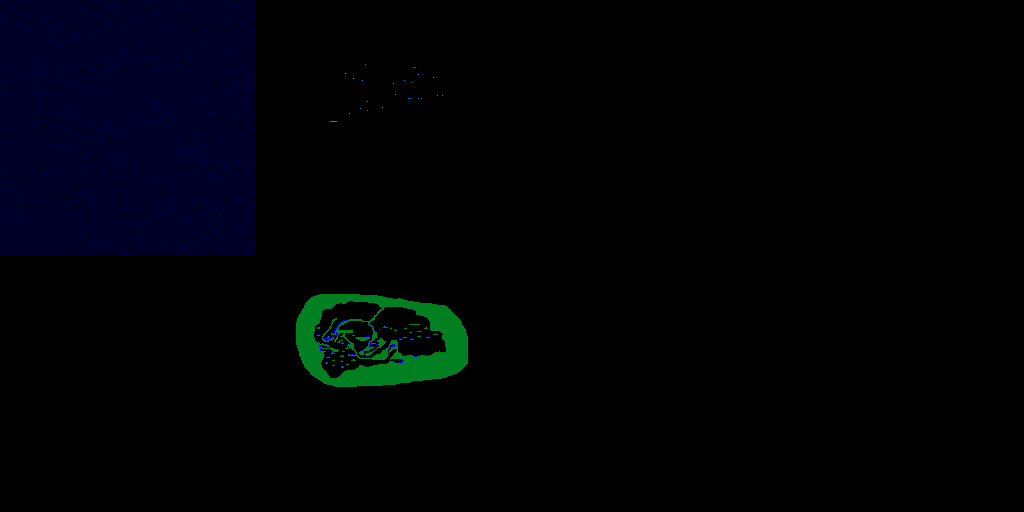
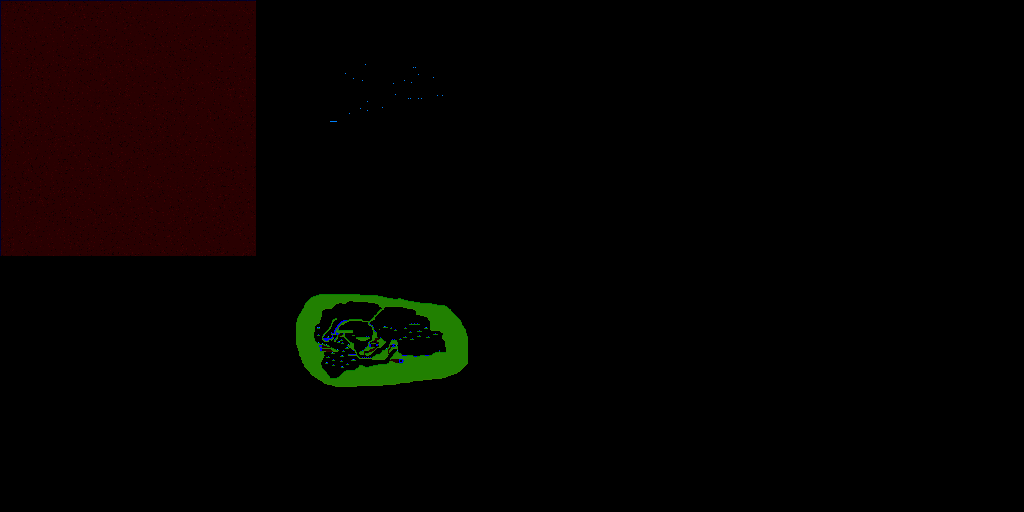
PlatformGameTest better lava

Changed region(s): [[0.0, 0.0, 0.25, 0.5], [0.2812, 0.5625, 0.4688, 0.7812]]

diff --git a/PlatformGameTest/src/game/LevelPreprocessor.java b/PlatformGameTest/src/game/LevelPreprocessor.java
@@ -13,7 +13,7 @@ public class LevelPreprocessor {
 		if(c == 0) {
 			return true;
 		}
-		c &= 0xFF;
+		c = (c >> 16) & 0xFF;
 		return (c > 200 && c != 249 && c != 248 && c != 220 && c != 222
 						&& c != 224 && c != 226 && c != 228);
 	}
@@ -27,114 +27,114 @@ public class LevelPreprocessor {
 	}
 
 	private static int processWall(int[] level, int i, int j, int width) {
-		int b = 33;
-		int bl = getPixel(level, i - 1, j, width) & 0xFFFFFF;
-		int br = getPixel(level, i + 1, j, width) & 0xFFFFFF;
-		int bt = getPixel(level, i, j - 1, width) & 0xFFFFFF;
-		int bb = getPixel(level, i, j + 1, width) & 0xFFFFFF;
+		int r = 33;
+		int rl = getPixel(level, i - 1, j, width) & 0xFFFFFF;
+		int rr = getPixel(level, i + 1, j, width) & 0xFFFFFF;
+		int rt = getPixel(level, i, j - 1, width) & 0xFFFFFF;
+		int rb = getPixel(level, i, j + 1, width) & 0xFFFFFF;
 
-		if (notWall(bl)) {
-			if (notWall(br)) {
-				if (notWall(bt)) {
-					if (notWall(bb)) {
-						b = 21;
+		if (notWall(rl)) {
+			if (notWall(rr)) {
+				if (notWall(rt)) {
+					if (notWall(rb)) {
+						r = 21;
 					} else {
-						b = 20;
+						r = 20;
 					}
 				} else {
-					if (notWall(bb)) {
-						b = 35;
+					if (notWall(rb)) {
+						r = 35;
 					} else {
-						b = 37;
+						r = 37;
 					}
 				}
 			} else {
-				if (notWall(bt)) {
-					if (notWall(bb)) {
-						b = 19;
+				if (notWall(rt)) {
+					if (notWall(rb)) {
+						r = 19;
 					} else {
-						b = 3;
+						r = 3;
 					}
 				} else {
-					if (notWall(bb)) {
-						b = 48;
+					if (notWall(rb)) {
+						r = 48;
 					} else {
-						b = 32;
+						r = 32;
 					}
 				}
 			}
 		} else {
-			if (notWall(br)) {
-				if (notWall(bt)) {
-					if (notWall(bb)) {
-						b = 36;
+			if (notWall(rr)) {
+				if (notWall(rt)) {
+					if (notWall(rb)) {
+						r = 36;
 					} else {
-						b = 5;
+						r = 5;
 					}
 				} else {
-					if (notWall(bb)) {
-						b = 50;
+					if (notWall(rb)) {
+						r = 50;
 					} else {
-						b = 34;
+						r = 34;
 					}
 				}
 			} else {
-				if (notWall(bt)) {
-					if (notWall(bb)) {
-						b = 52;
+				if (notWall(rt)) {
+					if (notWall(rb)) {
+						r = 52;
 					} else {
-						b = 4;
+						r = 4;
 					}
 				} else {
-					if (notWall(bb)) {
-						b = 49;
+					if (notWall(rb)) {
+						r = 49;
 					} else {
-						b = 33;
+						r = 33;
 					}
 				}
 			}
 		}
 
-		return b;
+		return r;
 	}
 
 	private static int processPlatform(int[] level, int i, int j, int width) {
-		int b = 1;
-		int bl = getPixel(level, i - 1, j, width) & 0xFFFFFF;
-		int br = getPixel(level, i + 1, j, width) & 0xFFFFFF;
-		int bb = getPixel(level, i, j + 1, width) & 0xFFFFFF;
+		int r = 1;
+		int rl = getPixel(level, i - 1, j, width) & 0xFFFFFF;
+		int rr = getPixel(level, i + 1, j, width) & 0xFFFFFF;
+		int rb = getPixel(level, i, j + 1, width) & 0xFFFFFF;
 
-		if (notWall(bl)) {
-			if (notWall(br)) {
-				if (notWall(bb)) {
-					b = 53;
+		if (notWall(rl)) {
+			if (notWall(rr)) {
+				if (notWall(rb)) {
+					r = 53;
 				} else {
-					b = 51;
+					r = 51;
 				}
 			} else {
-				if (notWall(bb)) {
-					b = 16;
+				if (notWall(rb)) {
+					r = 16;
 				} else {
-					b = 0;
+					r = 0;
 				}
 			}
 		} else {
-			if (notWall(br)) {
-				if (notWall(bb)) {
-					b = 18;
+			if (notWall(rr)) {
+				if (notWall(rb)) {
+					r = 18;
 				} else {
-					b = 2;
+					r = 2;
 				}
 			} else {
-				if (notWall(bb)) {
-					b = 17;
+				if (notWall(rb)) {
+					r = 17;
 				} else {
-					b = 1;
+					r = 1;
 				}
 			}
 		}
 
-		return b;
+		return r;
 	}
 
 	public static void processLevel(String fileName,
@@ -150,17 +150,28 @@ public class LevelPreprocessor {
 		for (int j = 1; j < height - 1; j++) {
 			for (int i = 1; i < width - 1; i++) {
 				int pixel = getPixel(level, i, j, width);
-				int b = pixel & 0xFF;
+				int r = (pixel >> 16) & 0xFF;
 
-				if (b == 33) {
-					b = processWall(level, i, j, width);
-				} else if (b == 1) {
-					b = processPlatform(level, i, j, width);
-				} else if(b == 17) {
-					b = processPlatform(level, i, j, width);
+				if (r == 33) {
+					r = processWall(level, i, j, width);
+				} else if (r == 1) {
+					r = processPlatform(level, i, j, width);
+				} else if(r == 17) {
+					r = processPlatform(level, i, j, width);
 				}
+				
+//				if((pixel & 0xFFFFFF) == 0 || b >= 200) {
+//					continue;
+//				}
+//				
+//				int newB = 1;
+//				if(b == 14 || b == 30 || b == 46 || b == 62) {
+//					newB = 2;
+//				}
+//				
+//				pixel = (b << 16) | (pixel & 0xFF00FF00) | newB;
 
-				pixel = (pixel & 0xFFFFFF00) | b;
+				pixel = (pixel & 0xFFFFFF00) | r;
 				setPixel(level, i, j, width, pixel);
 			}
 		}

diff --git a/PlatformGameTest/src/game/PlatformLevel.java b/PlatformGameTest/src/game/PlatformLevel.java
@@ -219,12 +219,13 @@ public class PlatformLevel {
 			return;
 		}
 		boolean blocking = (color & 0x8000) != 0;
+		int entityCheckpoint = (color >> 8) & 0x7F;
 		int r = (color >> 16) & 0xFF;
 		int b = color & 0xFF;
 		String prefixIn = "entity." + b + ".";
 
-		parseEntity(x, y, layer, points, lives, lifeDeficit, checkpoint, r,
-				prefixIn, blocking, b);
+		parseEntity(x, y, layer, points, lives, lifeDeficit, checkpoint, entityCheckpoint,
+				prefixIn, blocking, r);
 	}
 	
 	public Entity parseEntity(double x, double y, double layer, String prefix, boolean blocking) {
